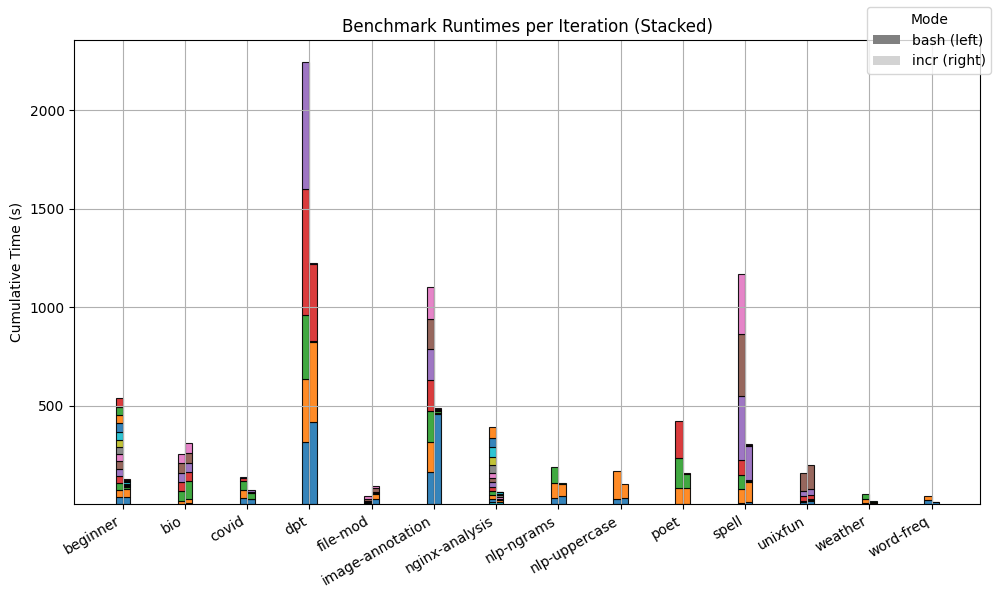
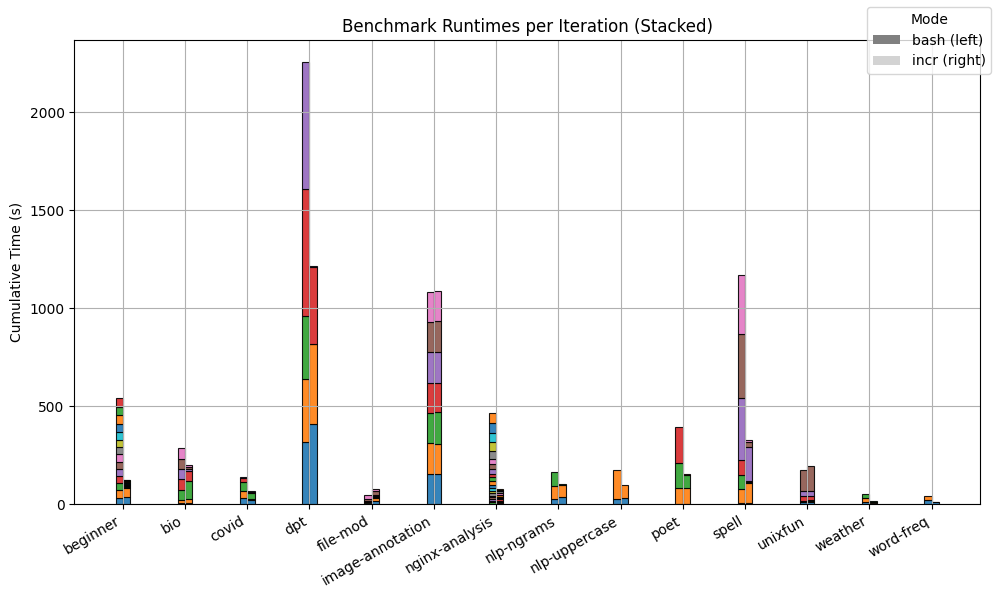
change plot

diff --git a/evaluation/analysis/plot.py b/evaluation/analysis/plot.py
@@ -28,7 +28,7 @@ width = 0.35  # Bar width
 all_colors = matplotlib.colormaps.get_cmap("tab10")
 
 for i, benchmark in enumerate(BENCHMARKS):
-    data = pd.read_csv(f"../results/{benchmark}-time.csv")
+    data = pd.read_csv(f"../default_results/default_1/{benchmark}-time.csv")
 
     # Get per-iteration times
     bash_times = data[data["mode"] == "bash"]["time_sec"].values
@@ -81,7 +81,7 @@ axes.set_title("Benchmark Runtimes per Iteration (Stacked)")
 # Iteration colors
 # get the max number of iterations across all benchmarks
 num_iters = max(
-    pd.read_csv(f"../results/{benchmark}-time.csv")["mode"].value_counts().max()
+    pd.read_csv(f"../default_results/default_1/{benchmark}-time.csv")["mode"].value_counts().max()
     for benchmark in BENCHMARKS
 )
 iter_patches = [
